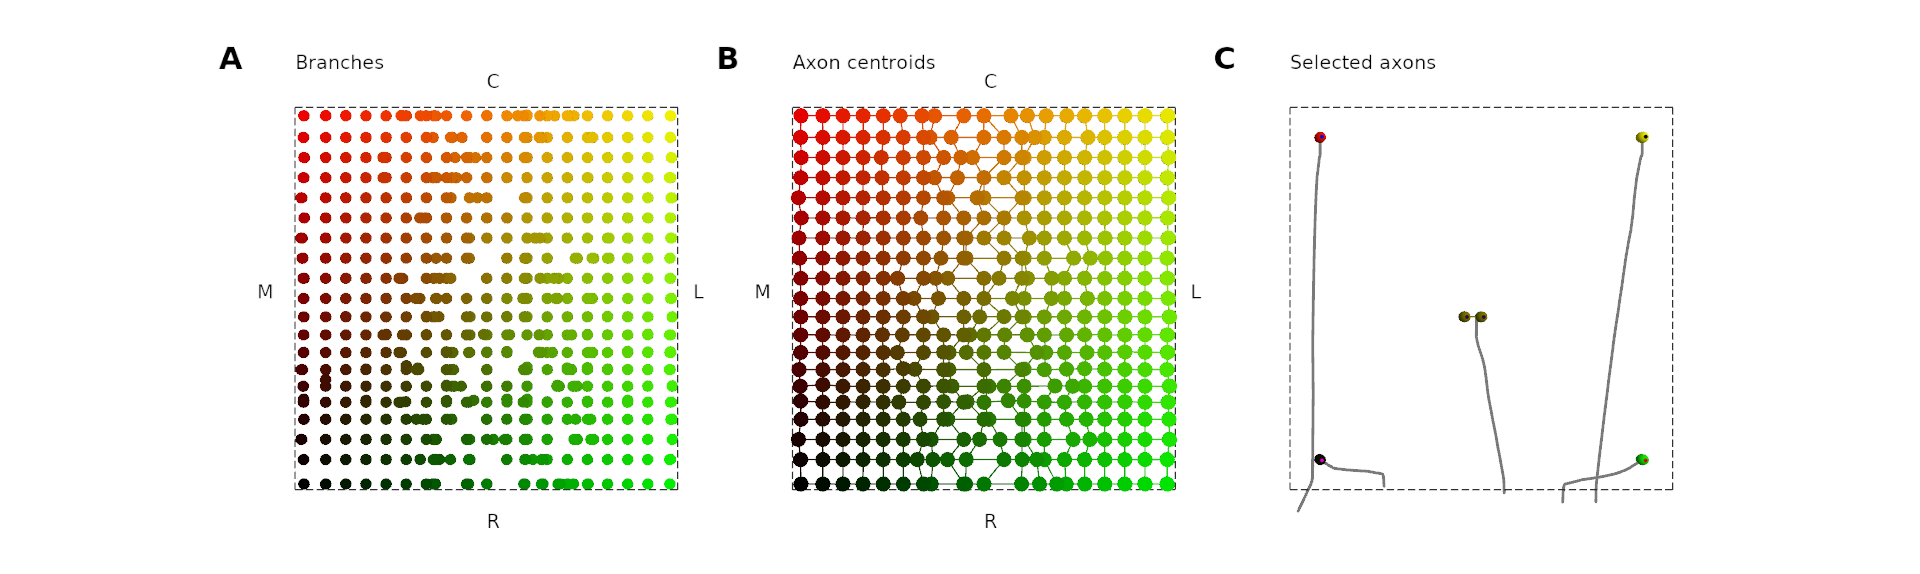
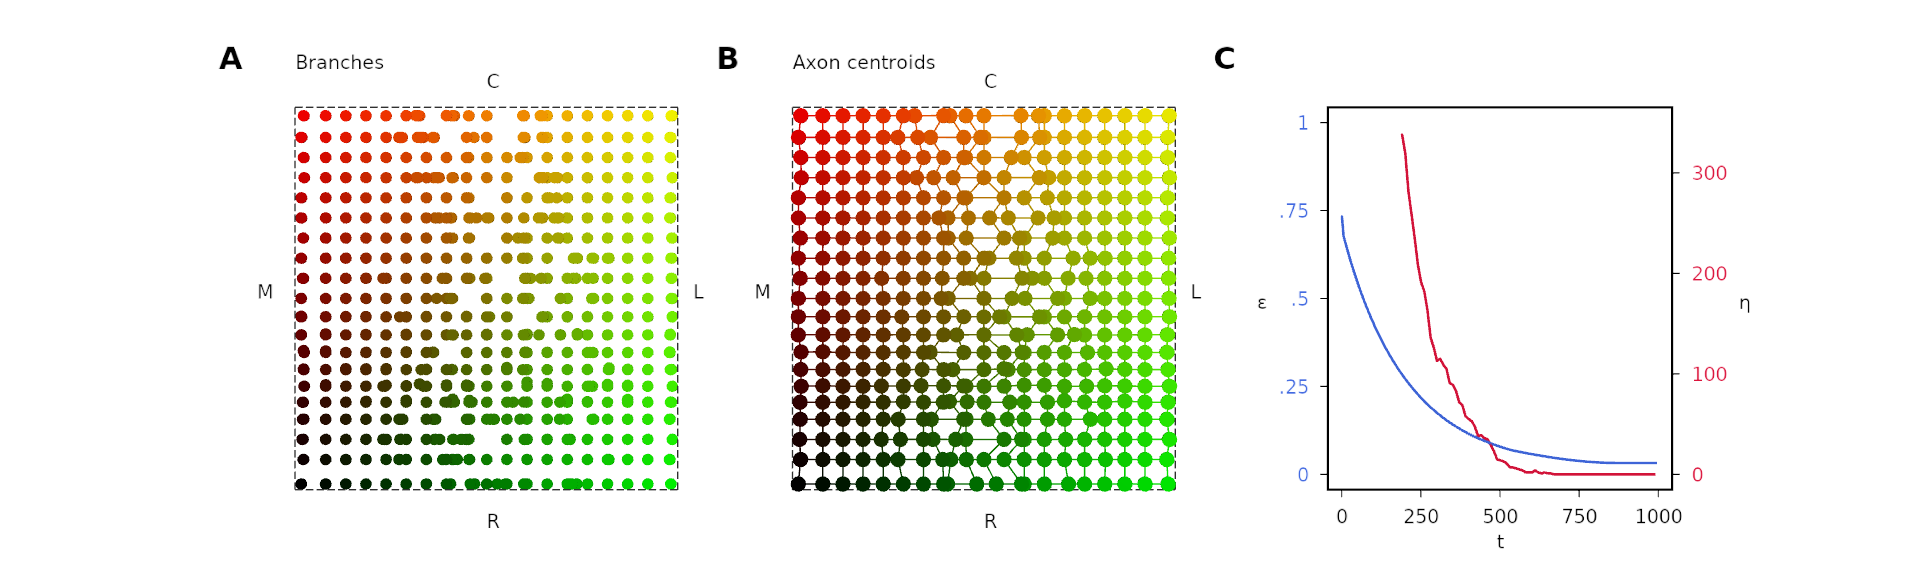
Fixed Fig 3

diff --git a/sim/agent/agent1.h b/sim/agent/agent1.h
@@ -335,7 +335,10 @@ struct Agent1
         {
             this->bv->reinit(); // Branches
             this->cv->reinit(); // Centroids
-            this->av->reinit(); // Selected axons
+            this->gv->append ((float)stepnum, this->ax_centroids.rms(), 0); // RMS/Crossings
+            if (stepnum > this->crosscount_from && stepnum%this->crosscount_every == 0) {
+                this->gv->append ((float)stepnum, this->ax_centroids.crosscount(), 1);
+            }
             break;
         }
         case graph_layout::c:
@@ -1670,12 +1673,12 @@ struct Agent1
         v->addVisualModel (jtvm);
     }
 
-    // 1x3 graphs (branches, centroids, selected)
+    // 1x3 graphs (branches, centroids, error)
     void graph_layout_b (const morph::Vector<float>& offset0)
     {
         morph::Vector<float> g_A = offset0 + morph::Vector<float>({0.0f, 0.0f, 0.0f});
         morph::Vector<float> g_B = offset0 + morph::Vector<float>({1.3f, 0.0f, 0.0f});
-        morph::Vector<float> g_C = offset0 + morph::Vector<float>({2.6f, 0.0f, 0.0f});
+        morph::Vector<float> g_C = offset0 + morph::Vector<float>({2.7f, 0.0f, 0.0f});
 
         this->bv = new BranchVisual<T, N, B> (v->shaderprog, v->tshaderprog, g_A, &this->branches, &this->ax_history);
         this->bv->rcpt_scale.compute_autoscale (rcpt_min, rcpt_max);
@@ -1700,14 +1703,23 @@ struct Agent1
         v->addVisualModel (this->cv);
 
         // Selected axons: This one gives an 'axon view'
-        this->av = new BranchVisual<T, N, B> (v->shaderprog, v->tshaderprog, g_C, &this->branches, &this->ax_history);
-        this->av->view = branchvisual_view::axonview;
-        for (auto sa : this->seeaxons) { this->av->seeaxons.insert(sa); }
-        this->av->rcpt_scale.compute_autoscale (rcpt_min, rcpt_max);
-        this->av->target_scale.compute_autoscale (0, 1);
-        this->av->finalize();
-        this->av->addLabel ("Selected axons", {0.0f, 1.1f, 0.0f});
-        v->addVisualModel (this->av);
+        this->gv = new morph::GraphVisual<T> (v->shaderprog, v->tshaderprog, g_C);
+        this->gv->axisstyle = morph::axisstyle::twinax;
+        this->gv->twodimensional = false;
+        this->gv->setsize (0.9f, 1.0f);
+        this->gv->setlimits (0, this->conf->getFloat ("steps", 1000),
+                             0, this->conf->getFloat("graph_ymax", 1.0f),
+                             0, this->conf->getFloat("graph_ymax2", 200.0f));
+        this->gv->axislabelgap = 0.03f;
+        this->gv->policy = morph::stylepolicy::lines;
+        this->gv->ylabel = unicode::toUtf8 (unicode::epsilon);
+        this->gv->ylabel2 = unicode::toUtf8 (unicode::eta);
+        this->gv->xlabel = "t";
+        this->gv->prepdata (unicode::toUtf8 (unicode::epsilon));
+        this->gv->prepdata (unicode::toUtf8 (unicode::eta), morph::axisside::right);
+        this->gv->legend = false;
+        this->gv->finalize();
+        this->v->addVisualModel (this->gv);
 
         // Figure letters
         morph::Vector<float> ozero = {-0.2f, 1.1f, 0.0f};
@@ -1716,7 +1728,7 @@ struct Agent1
         morph::VisualModel* jtvm = new morph::VisualModel (v->shaderprog, v->tshaderprog, ozero);
         jtvm->addLabel ("A", g_A, morph::colour::black, morph::VisualFont::VeraBold, lfs, lpts);
         jtvm->addLabel ("B", g_B, morph::colour::black, morph::VisualFont::VeraBold, lfs, lpts);
-        jtvm->addLabel ("C", g_C, morph::colour::black, morph::VisualFont::VeraBold, lfs, lpts);
+        jtvm->addLabel ("C", g_C+morph::Vector<float>({-0.1,0,0}), morph::colour::black, morph::VisualFont::VeraBold, lfs, lpts);
         this->v->addVisualModel (jtvm);
     }
 
@@ -1776,7 +1788,6 @@ struct Agent1
         this->v->addVisualModel (this->cv);
 
         // A graph of the RMS diffs between axon position centroids and target positions from retina
-        // SEB working on this one
         this->gv = new morph::GraphVisual<T> (v->shaderprog, v->tshaderprog, g_F);
         this->gv->axisstyle = morph::axisstyle::twinax;
         this->gv->twodimensional = false;
